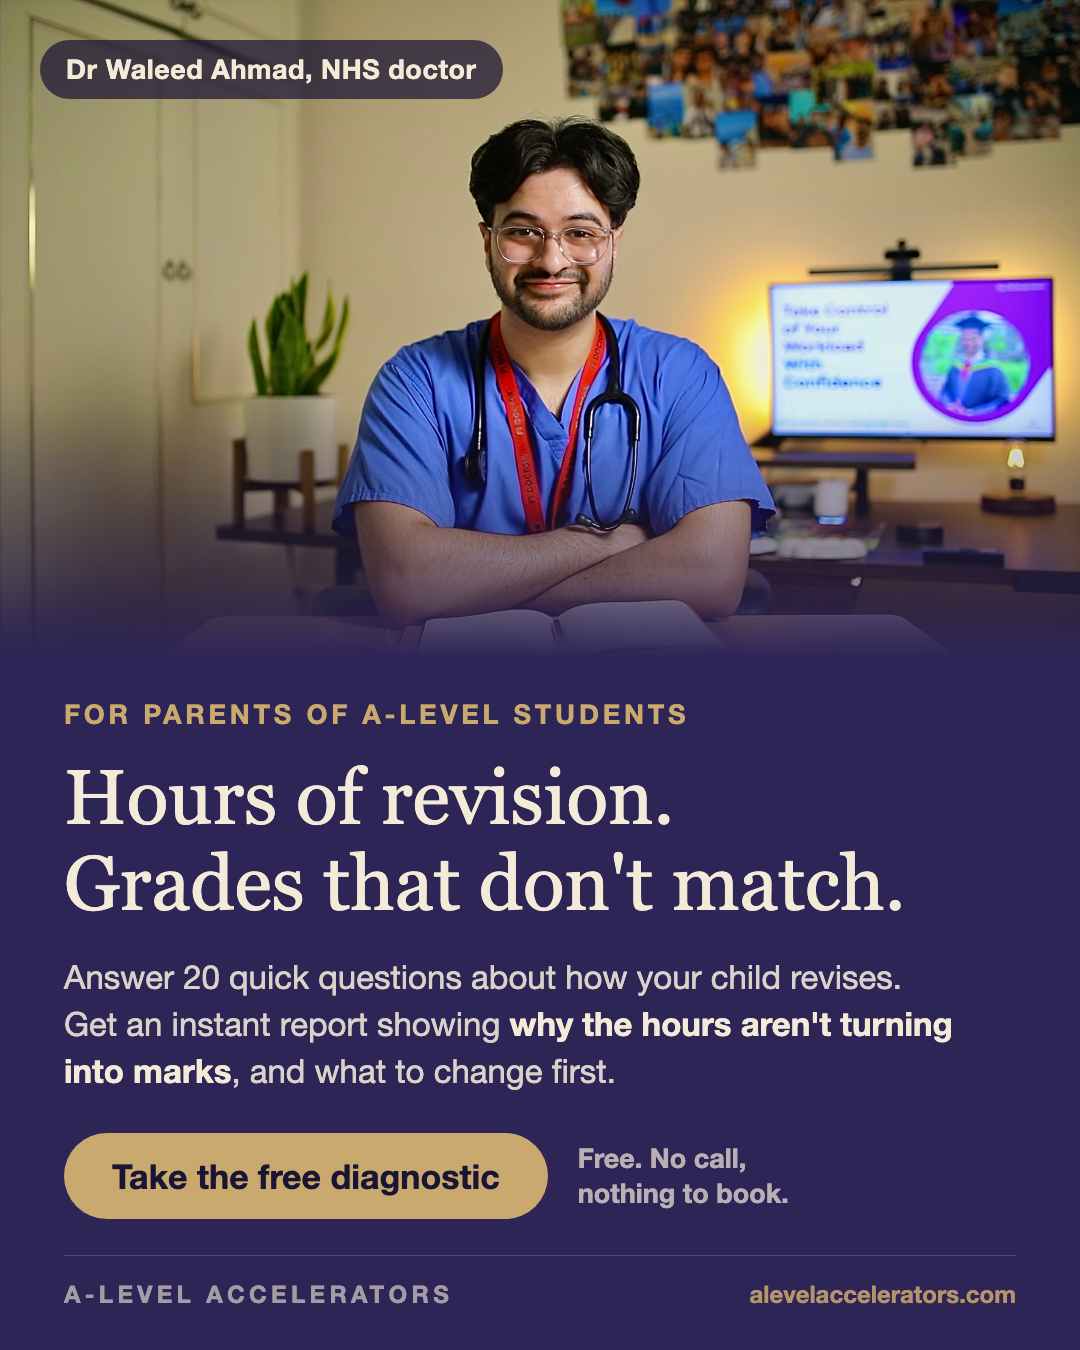
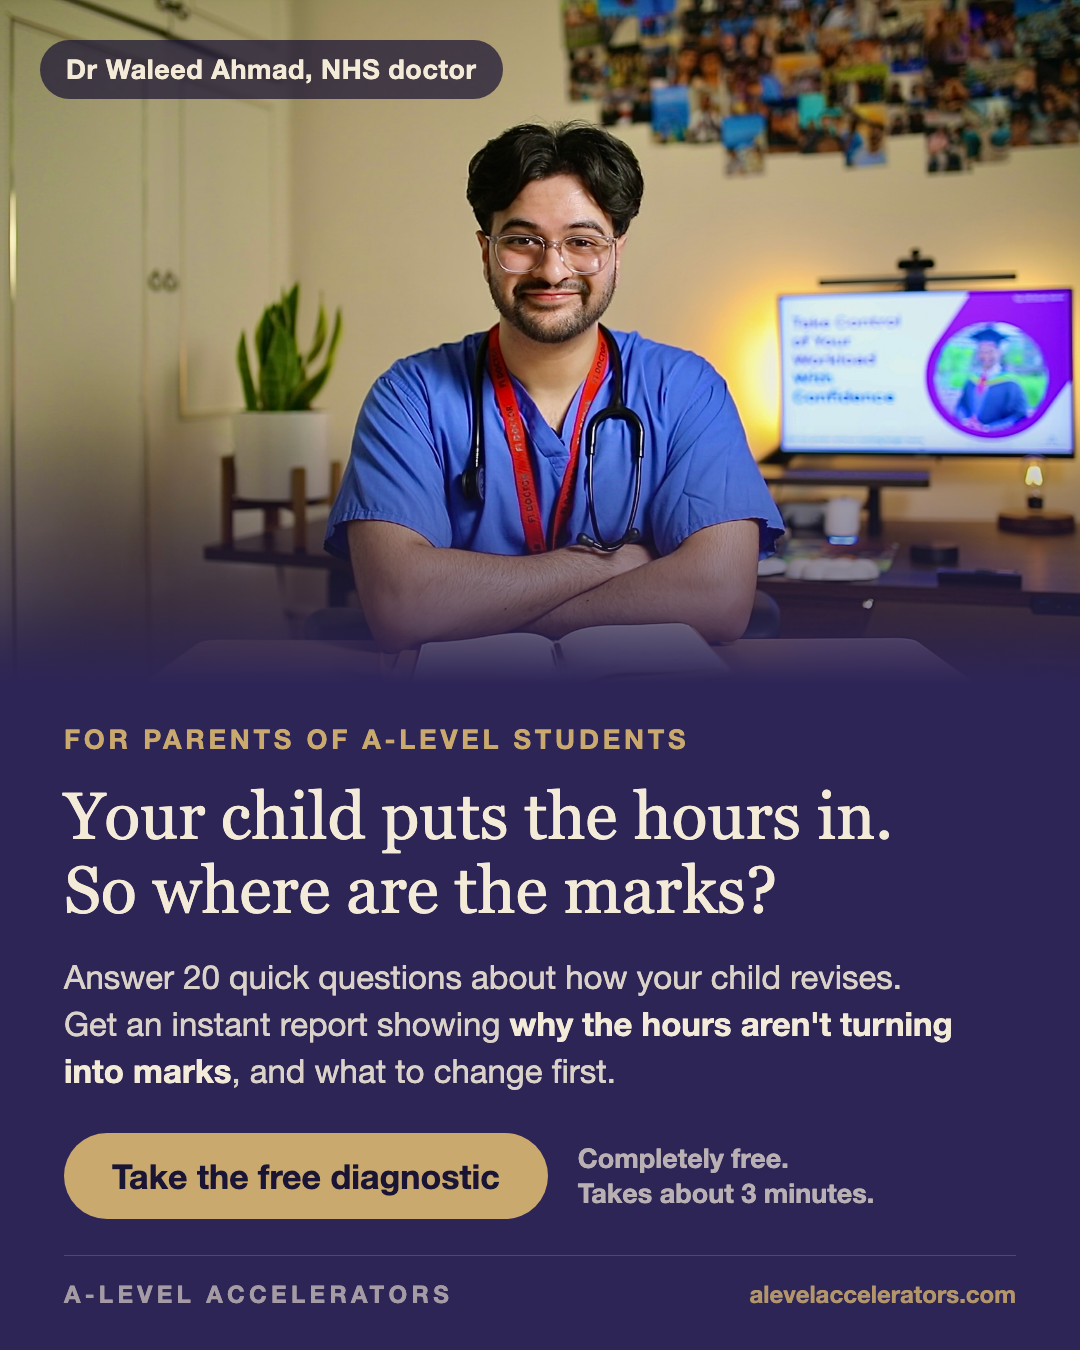
Ad feedback round: parent call-out headline, reason-why on the profiles graphic, no-call line removed, primary text tightened

diff --git a/content/meta-ads/2026-07-27-parents-diagnostic-launch/creative-src/ad-1x1.html b/content/meta-ads/2026-07-27-parents-diagnostic-launch/creative-src/ad-1x1.html
@@ -45,7 +45,7 @@
   h1 {
     font-family: Georgia, 'Times New Roman', serif;
     font-weight: 400;
-    font-size: 62px; line-height: 1.12;
+    font-size: 54px; line-height: 1.12;
     color: #F3EBD8;
     margin-bottom: 20px;
   }
@@ -90,11 +90,11 @@
   </div>
   <div class="panel">
     <div class="eyebrow">FOR PARENTS OF A-LEVEL STUDENTS</div>
-    <h1>Hours of revision.<br>Grades that don't match.</h1>
+    <h1>Your child puts the hours in.<br>So where are the marks?</h1>
     <div class="sub">Answer 20 quick questions about how your child revises. Get an instant report showing <strong>why the hours aren't turning into marks</strong>, and what to change first.</div>
     <div class="cta-row">
       <div class="pill">Take the free diagnostic</div>
-      <div class="free">Free. No call,<br>nothing to book.</div>
+      <div class="free">Completely free.<br>Takes about 3 minutes.</div>
     </div>
     <div class="foot">
       <div class="wordmark">A-LEVEL ACCELERATORS</div>

diff --git a/content/meta-ads/2026-07-27-parents-diagnostic-launch/creative-src/ad-4x5.html b/content/meta-ads/2026-07-27-parents-diagnostic-launch/creative-src/ad-4x5.html
@@ -45,7 +45,7 @@
   h1 {
     font-family: Georgia, 'Times New Roman', serif;
     font-weight: 400;
-    font-size: 77px; line-height: 1.12;
+    font-size: 66px; line-height: 1.12;
     color: #F3EBD8;
     margin-bottom: 28px;
   }
@@ -90,11 +90,11 @@
   </div>
   <div class="panel">
     <div class="eyebrow">FOR PARENTS OF A-LEVEL STUDENTS</div>
-    <h1>Hours of revision.<br>Grades that don't match.</h1>
+    <h1>Your child puts the hours in.<br>So where are the marks?</h1>
     <div class="sub">Answer 20 quick questions about how your child revises. Get an instant report showing <strong>why the hours aren't turning into marks</strong>, and what to change first.</div>
     <div class="cta-row">
       <div class="pill">Take the free diagnostic</div>
-      <div class="free">Free. No call,<br>nothing to book.</div>
+      <div class="free">Completely free.<br>Takes about 3 minutes.</div>
     </div>
     <div class="foot">
       <div class="wordmark">A-LEVEL ACCELERATORS</div>

diff --git a/content/meta-ads/2026-07-27-parents-diagnostic-launch/creative-src/ad-9x16.html b/content/meta-ads/2026-07-27-parents-diagnostic-launch/creative-src/ad-9x16.html
@@ -45,7 +45,7 @@
   h1 {
     font-family: Georgia, 'Times New Roman', serif;
     font-weight: 400;
-    font-size: 74px; line-height: 1.12;
+    font-size: 70px; line-height: 1.12;
     color: #F3EBD8;
     margin-bottom: 28px;
   }
@@ -90,11 +90,11 @@
   </div>
   <div class="panel">
     <div class="eyebrow">FOR PARENTS OF A-LEVEL STUDENTS</div>
-    <h1>Hours of revision.<br>Grades that don't match.</h1>
+    <h1>Your child puts the hours in.<br>So where are the marks?</h1>
     <div class="sub">Answer 20 quick questions about how your child revises. Get an instant report showing <strong>why the hours aren't turning into marks</strong>, and what to change first.</div>
     <div class="cta-row">
       <div class="pill">Take the free diagnostic</div>
-      <div class="free">Free. No call,<br>nothing to book.</div>
+      <div class="free">Completely free.<br>Takes about 3 minutes.</div>
     </div>
     <div class="foot">
       <div class="wordmark">A-LEVEL ACCELERATORS</div>

diff --git a/content/meta-ads/2026-07-27-parents-diagnostic-launch/creative-src/ad-profiles-1x1.html b/content/meta-ads/2026-07-27-parents-diagnostic-launch/creative-src/ad-profiles-1x1.html
@@ -96,10 +96,10 @@
     </div>
     <div class="note"><span class="tick"></span><span><strong>The Grinder:</strong> hours going in, marks not following. Sound familiar?</span></div>
   </div>
-  <div class="sub">20 questions about how your child revises, answered by you in about 3 minutes. Instant report from <strong>Dr Waleed Ahmad, NHS doctor</strong>.</div>
+  <div class="sub">The instant report shows <strong>where their study hours are leaking, and what to change first</strong>. 20 questions, about 3 minutes, built by Dr Waleed Ahmad, NHS doctor.</div>
   <div class="cta-row">
     <div class="pill">Find your child's profile</div>
-    <div class="free">Free. No call,<br>nothing to book.</div>
+    <div class="free">Completely free.</div>
   </div>
   <div class="foot">
     <div class="wordmark">A-LEVEL ACCELERATORS</div>

diff --git a/content/meta-ads/2026-07-27-parents-diagnostic-launch/creative-src/ad-profiles-4x5.html b/content/meta-ads/2026-07-27-parents-diagnostic-launch/creative-src/ad-profiles-4x5.html
@@ -96,10 +96,10 @@
     </div>
     <div class="note"><span class="tick"></span><span><strong>The Grinder:</strong> hours going in, marks not following. Sound familiar?</span></div>
   </div>
-  <div class="sub">20 questions about how your child revises, answered by you in about 3 minutes. Instant report from <strong>Dr Waleed Ahmad, NHS doctor</strong>.</div>
+  <div class="sub">The instant report shows <strong>where their study hours are leaking, and what to change first</strong>. 20 questions, about 3 minutes, built by Dr Waleed Ahmad, NHS doctor.</div>
   <div class="cta-row">
     <div class="pill">Find your child's profile</div>
-    <div class="free">Free. No call,<br>nothing to book.</div>
+    <div class="free">Completely free.</div>
   </div>
   <div class="foot">
     <div class="wordmark">A-LEVEL ACCELERATORS</div>

diff --git a/content/meta-ads/2026-07-27-parents-diagnostic-launch/creative-src/ad-profiles-9x16.html b/content/meta-ads/2026-07-27-parents-diagnostic-launch/creative-src/ad-profiles-9x16.html
@@ -96,10 +96,10 @@
     </div>
     <div class="note"><span class="tick"></span><span><strong>The Grinder:</strong> hours going in, marks not following. Sound familiar?</span></div>
   </div>
-  <div class="sub">20 questions about how your child revises, answered by you in about 3 minutes. Instant report from <strong>Dr Waleed Ahmad, NHS doctor</strong>.</div>
+  <div class="sub">The instant report shows <strong>where their study hours are leaking, and what to change first</strong>. 20 questions, about 3 minutes, built by Dr Waleed Ahmad, NHS doctor.</div>
   <div class="cta-row">
     <div class="pill">Find your child's profile</div>
-    <div class="free">Free. No call,<br>nothing to book.</div>
+    <div class="free">Completely free.</div>
   </div>
   <div class="foot">
     <div class="wordmark">A-LEVEL ACCELERATORS</div>

diff --git a/content/meta-ads/2026-07-27-parents-diagnostic-launch/ad.md b/content/meta-ads/2026-07-27-parents-diagnostic-launch/ad.md
@@ -25,23 +25,20 @@ The studio still (scrubs, arms crossed, warm room, teaching screen behind) reads
 
 ### Primary text
 
-> The course they want asks for AAA. The predicted grades aren't there yet. And your child is already working hard.
+> The course they want asks for AAA. The predictions aren't there yet. And your child is already working hard.
 >
-> If that's your house right now, this is for you.
+> I'm an NHS doctor and I've worked with over 1,000 A-level students. When the hours go in and the marks don't come out, it's almost never effort. It's the revision system nobody taught them.
 >
-> I'm an NHS doctor. Before medicine I was a top-performing A-level student, and I've worked with over 1,000 A-level students since. I see the same pattern every week: a student putting in real hours with a revision system nobody ever taught them, then losing marks in exams they knew the content for.
+> The free Revision Diagnostic shows you what's actually going wrong:
 >
-> Effort is almost never the problem. The system is. And you can't fix a system you can't see.
+> • 20 quick questions about how your child revises, about 3 minutes
+> • An instant report: which of 7 revision profiles fits your child, where the study hours leak, and what to change first
 >
-> I can't treat a patient without a diagnosis first. Revision is the same. So I built the Revision Diagnostic for parents:
->
-> • You answer 20 quick questions about how your child revises. It takes about 3 minutes.
-> • You get an instant report showing which of 7 revision profiles your child fits.
-> • It shows where their study hours are leaking away, and what to change first.
->
-> It's free. No call and nothing to book. Just a clear picture of why the hours aren't turning into the grades, before results day on 13 August and the new school year.
+> Completely free. Take it before results day on 13 August.
 >
 > Tap Learn More and see which profile your child gets.
+
+Trimmed to about 110 words on 27 July at Waleed's instruction: the first draft ran about 200 words, longer than the competitor norm (MyEdSpace and the other parent-market winners run a hook, one credibility line, short bullets and a CTA). The ask is a free 3 minute quiz, so the copy matches the size of the ask. Deliberately no "no call, nothing to book" anywhere: the funnel's next step after the report IS the call, so the ads never promise its absence.
 
 ### Headline (below the image)
 
@@ -61,15 +58,15 @@ Learn More
 - `parents-diagnostic-1x1.png` (1080x1080): right column and any square placement
 - `parents-diagnostic-9x16.png` (1080x1920): Stories and Reels placements
 
-On-image copy: eyebrow "FOR PARENTS OF A-LEVEL STUDENTS", headline "Hours of revision. Grades that don't match.", subline naming the 20 questions and the instant report, gold pill "Take the free diagnostic", credibility badge "Dr Waleed Ahmad, NHS doctor". Editable sources in `creative-src/` (HTML, rendered with headless Chrome at exact pixel sizes).
+On-image copy: eyebrow "FOR PARENTS OF A-LEVEL STUDENTS", headline "Your child puts the hours in. So where are the marks?" (direct parent call-out, reworded 27 July at Waleed's instruction), subline naming the 20 questions and the instant report, gold pill "Take the free diagnostic" beside "Completely free. Takes about 3 minutes.", credibility badge "Dr Waleed Ahmad, NHS doctor". Editable sources in `creative-src/` (HTML, rendered with headless Chrome at exact pixel sizes).
 
 ### Why the opening line is the opening line
 
-Meta truncates primary text after roughly the first two lines, so the hook has to catch the priority reader before "See more". "The course they want asks for AAA. The predicted grades aren't there yet." is the exact sentence in a rising Year 13 parent's head in late July: predictions were just set at the end of Year 12, the UCAS application lands in the autumn, and the gap between the two is the single sharpest frustration named in the brief. Parents of rising Year 12s aren't excluded: the second paragraph onwards (hours in, grades not matching, system never taught) is their story too, and nothing in the ad names a year group as a requirement.
+Meta truncates primary text after roughly the first two lines, so the hook has to catch the priority reader before "See more". "The course they want asks for AAA. The predictions aren't there yet." is the exact sentence in a rising Year 13 parent's head in late July: predictions were just set at the end of Year 12, the UCAS application lands in the autumn, and the gap between the two is the single sharpest frustration named in the brief. Parents of rising Year 12s aren't excluded: the second paragraph onwards (hours in, grades not matching, system never taught) is their story too, and nothing in the ad names a year group as a requirement.
 
 ## Creative 2: the diagnostic profiles graphic (added 27 July, same day)
 
-A second concept for the same ad set, in the site's own look (cream, white card, purple): headline "Which of the 7 revision profiles is your child?", the seven real archetype chips from `lib/diagnostic.ts` with The Grinder highlighted ("hours going in, marks not following. Sound familiar?"), the 20-questions subline, pill "Find your child's profile". Files: `parents-profiles-4x5.png`, `parents-profiles-1x1.png`, `parents-profiles-9x16.png` in `final/`, sources in `creative-src/`. It tests product curiosity against founder credibility, which is the most informative first contrast. Uses the same primary text, headline and URL as creative 1.
+A second concept for the same ad set, in the site's own look (cream, white card, purple): headline "Which of the 7 revision profiles is your child?", the seven real archetype chips from `lib/diagnostic.ts` with The Grinder highlighted ("hours going in, marks not following. Sound familiar?"), a reason-why subline ("The instant report shows where their study hours are leaking, and what to change first"), pill "Find your child's profile" beside "Completely free." Files: `parents-profiles-4x5.png`, `parents-profiles-1x1.png`, `parents-profiles-9x16.png` in `final/`, sources in `creative-src/`. It tests product curiosity against founder credibility, which is the most informative first contrast. Uses the same primary text, headline and URL as creative 1.
 
 ## The £100 test plan (agreed structure, 27 July)
 
